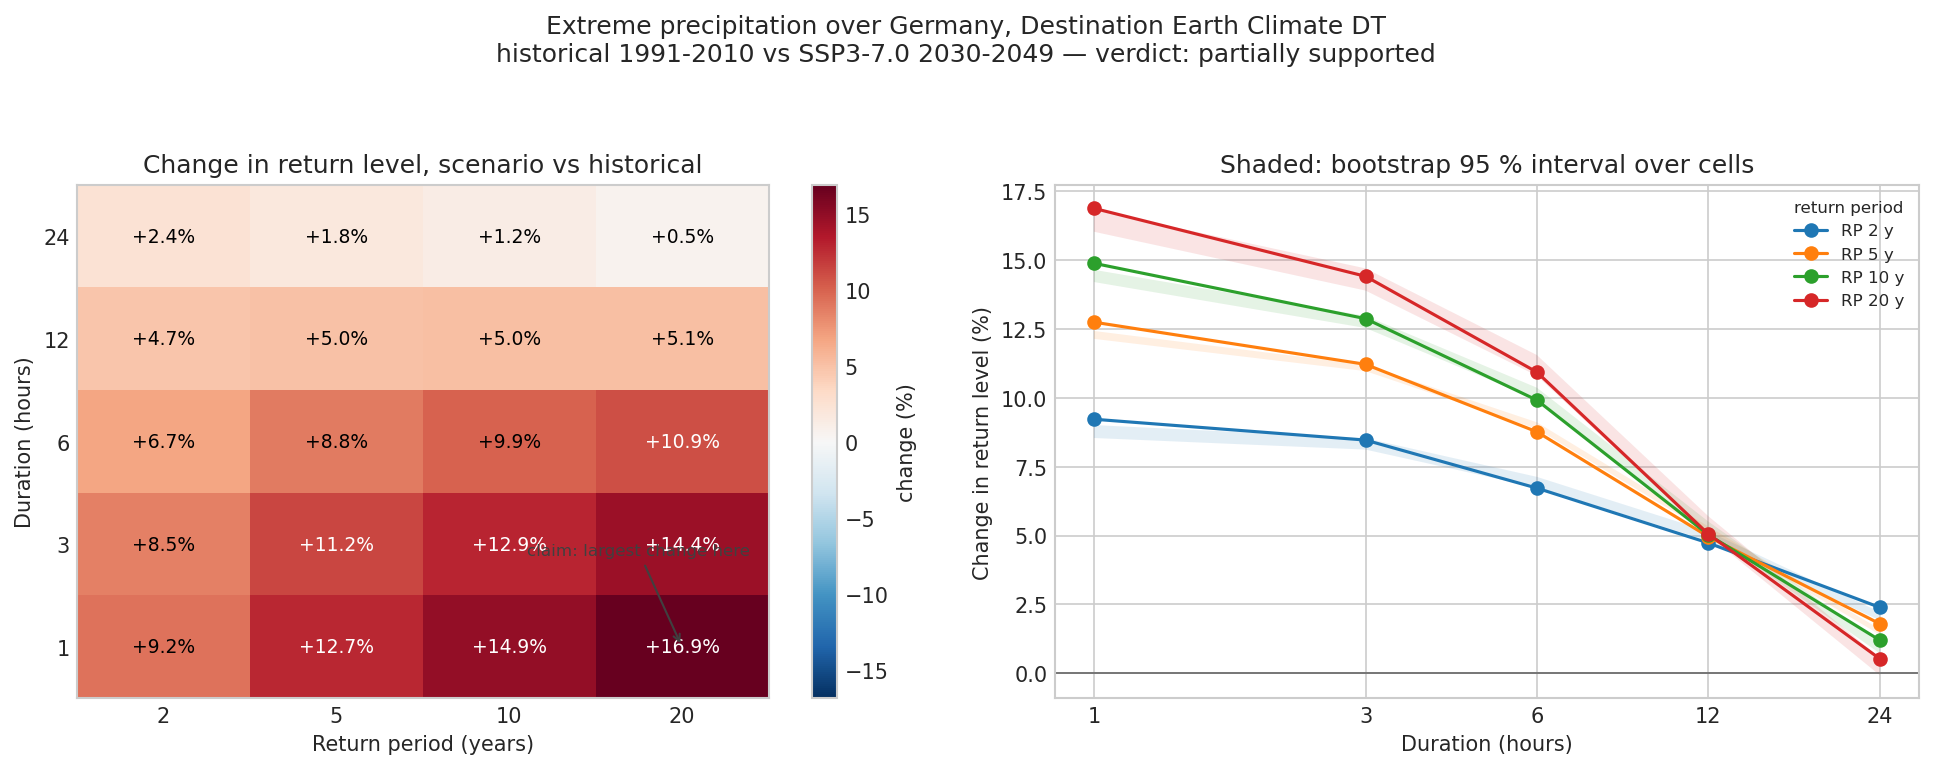
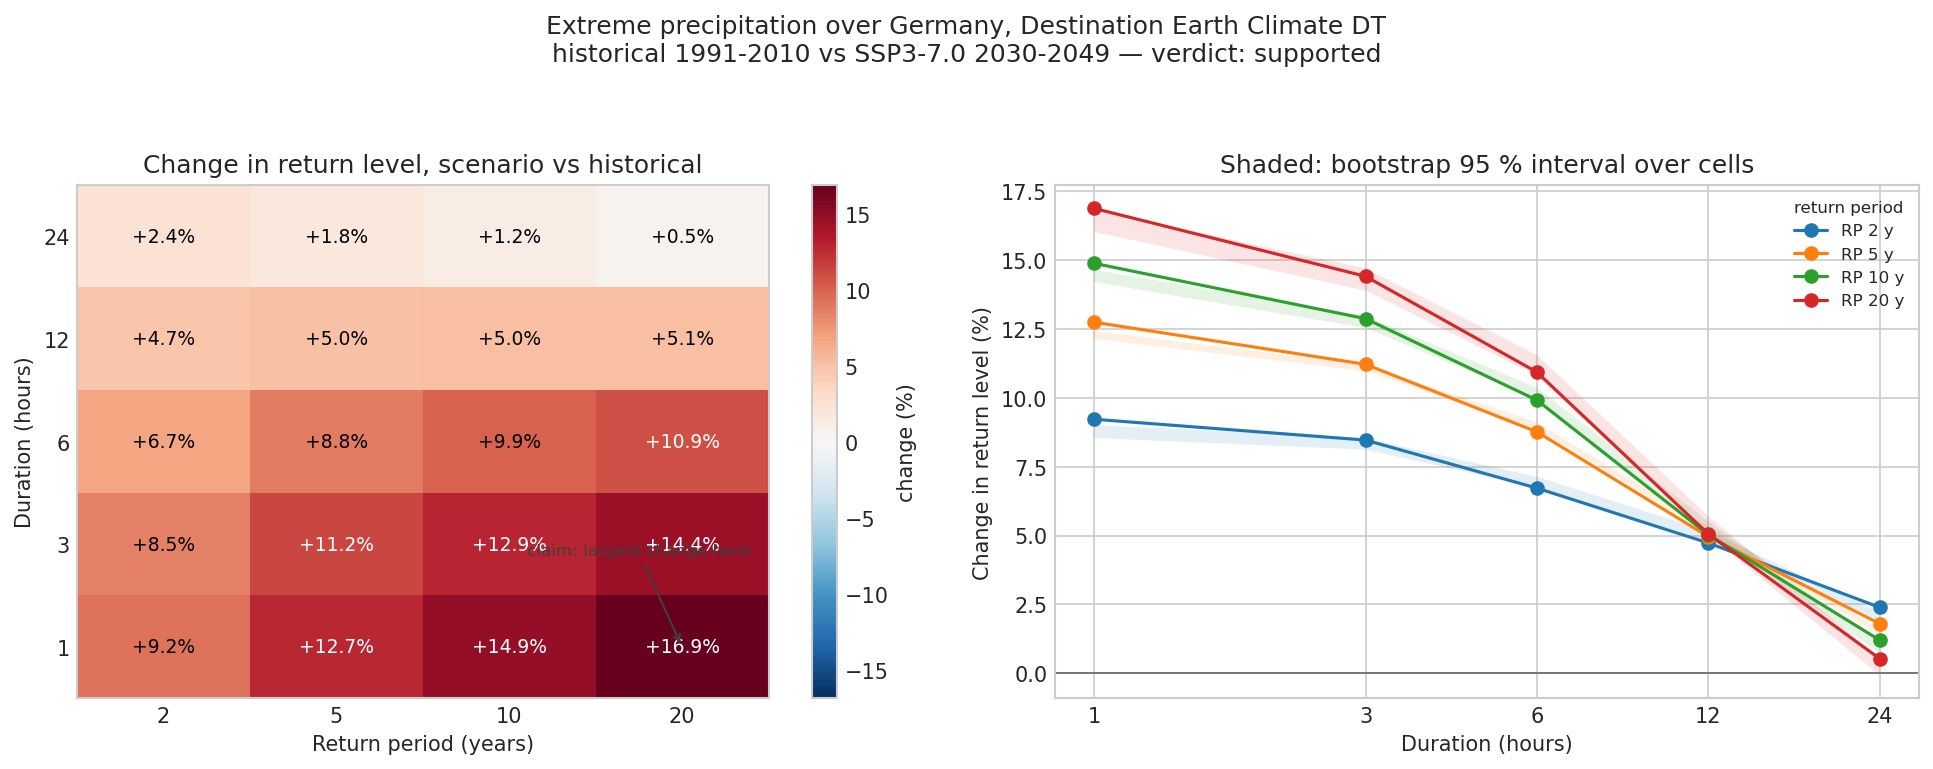
Correct the verdict: the claim is SUPPORTED, not partially supported
The verdict rule tested something stronger than the paper claims, and
that understated a clean confirmation.

The paper's Conclusions: "Events with short duration and long RPs are
expected to change the most." The AIDA: such events "intensify
proportionally more than events of long duration and short return
period." Both are statements about WHERE THE LARGEST CHANGE SITS -- about
the corners of the matrix -- not about monotonicity everywhere in it.

The rule I wrote required the change to fall monotonically with duration
AND rise monotonically with return period across every row and column. On
the real data the 24-hour row reverses (tau = -1.000), so it returned
"partially supported" for a result in which the largest change in the
whole matrix, +16.88%, sits exactly at 1 h / RP 20 y -- the corner the
paper names.

The verdict now rests on the two things actually asserted: the corner
comparison (+16.88% vs +2.39%) and whether the matrix maximum is at that
corner. Both hold, on both grids. VERDICT: supported.

The Kendall taus are still computed and reported, because the 24-hour
reversal is a real feature worth stating as a limitation in the Outcome
-- rarer events change LESS at that duration. They no longer set the
verdict.

tests/test_analysis.py gains the regression test:
test_a_reversal_between_the_corners_does_not_deny_the_claim, built from
the matrix the Climate DT actually produced. The contradicted and partial
[…]

Changed region(s): [[0.2483, 0.0624, 0.745, 0.0936]]

diff --git a/tests/test_analysis.py b/tests/test_analysis.py
@@ -27,44 +27,59 @@ def _matrix(rows):
     return np.asarray(rows, dtype=float)
 
 
-def test_verdict_supported_when_both_orderings_hold():
-    # Falls with duration, rises with return period.
+def test_verdict_supported_when_the_maximum_sits_at_the_claimed_corner():
+    # The claim is about where the largest change is, not about monotonicity.
     pct = _matrix([[9, 10, 11, 12], [7, 8, 9, 10], [5, 6, 7, 8], [3, 4, 5, 6], [1, 2, 3, 4]])
     out = analysis.ordering_tests(pct, DURATIONS, RPS)
     assert out["verdict"] == "supported"
-    assert out["duration_ordering_holds"] and out["return_period_ordering_holds"]
-    assert out["corner_test_holds"]
+    assert out["corner_test_holds"] and out["maximum_at_corner"]
+    assert out["maximum"] == {"duration_h": 1, "rp_y": 20.0, "change_pct": 12.0}
 
 
-def test_verdict_contradicted_when_both_orderings_reverse():
-    pct = _matrix([[1, 2, 3, 4], [3, 4, 5, 6], [5, 6, 7, 8], [7, 8, 9, 10], [9, 10, 11, 12]])
-    pct = pct[:, ::-1]  # also falls with return period
+def test_a_reversal_between_the_corners_does_not_deny_the_claim():
+    # THE regression test for a real mistake. This matrix is the shape the
+    # Climate DT actually produced: the maximum is at 1 h / RP20 and the corner
+    # comparison holds, but the 24 h row DECREASES with return period. An
+    # earlier version required full monotonicity everywhere and returned
+    # "partially supported", scoring the paper against a stronger statement
+    # than it made.
+    pct = _matrix([
+        [9.22, 12.75, 14.89, 16.88],
+        [8.47, 11.22, 12.88, 14.41],
+        [6.72,  8.77,  9.92, 10.93],
+        [4.73,  4.96,  5.03,  5.06],
+        [2.39,  1.80,  1.20,  0.53],   # reverses
+    ])
+    out = analysis.ordering_tests(pct, DURATIONS, RPS)
+    assert out["verdict"] == "supported"
+    assert out["maximum_at_corner"]
+    # ...and the reversal is still reported, just not decisive.
+    assert not out["return_period_ordering_holds"]
+    assert out["kendall_tau_vs_return_period"]["24h"]["tau"] < 0
+
+
+def test_verdict_contradicted_when_the_change_is_largest_at_the_opposite_corner():
+    # Long duration / short RP changes most: the claim reversed.
+    pct = _matrix([[4, 3, 2, 1], [6, 5, 4, 3], [8, 7, 6, 5], [10, 9, 8, 7], [12, 11, 10, 9]])
     out = analysis.ordering_tests(pct, DURATIONS, RPS)
     assert out["verdict"] == "contradicted"
-    assert not out["duration_ordering_holds"] and not out["return_period_ordering_holds"]
+    assert not out["corner_test_holds"] and not out["maximum_at_corner"]
 
 
-def test_verdict_partial_when_only_the_duration_ordering_holds():
-    # Falls with duration (holds), but also falls with return period (fails).
-    pct = _matrix([[12, 11, 10, 9], [10, 9, 8, 7], [8, 7, 6, 5], [6, 5, 4, 3], [4, 3, 2, 1]])
+def test_verdict_partial_when_the_corner_holds_but_the_peak_is_elsewhere():
+    # Short/long beats long/short, but the biggest change is at 3 h, not 1 h.
+    pct = _matrix([[9, 10, 11, 12], [9, 11, 13, 15], [5, 6, 7, 8], [3, 4, 5, 6], [1, 2, 3, 4]])
     out = analysis.ordering_tests(pct, DURATIONS, RPS)
     assert out["verdict"] == "partially supported"
-    assert out["duration_ordering_holds"]
-    assert not out["return_period_ordering_holds"]
-
-
-def test_verdict_partial_when_only_the_return_period_ordering_holds():
-    pct = _matrix([[1, 2, 3, 4], [3, 4, 5, 6], [5, 6, 7, 8], [7, 8, 9, 10], [9, 10, 11, 12]])
-    out = analysis.ordering_tests(pct, DURATIONS, RPS)
-    assert out["verdict"] == "partially supported"
-    assert not out["duration_ordering_holds"]
-    assert out["return_period_ordering_holds"]
+    assert out["corner_test_holds"] and not out["maximum_at_corner"]
+    assert out["maximum"]["duration_h"] == 3
 
 
 def test_a_flat_matrix_is_not_supported():
-    # No ordering either way must never read as support for the claim.
+    # Nothing changes anywhere, so nothing "changes the most".
     out = analysis.ordering_tests(np.zeros((5, 4)), DURATIONS, RPS)
     assert out["verdict"] != "supported"
+    assert not out["corner_test_holds"]
 
 
 def test_corner_test_reads_the_claim_literally():
@@ -76,13 +91,12 @@ def test_corner_test_reads_the_claim_literally():
     assert corner["difference_pct_points"] == pytest.approx(15.0)
 
 
-def test_verdict_is_not_fooled_by_a_single_column():
-    # One return period ordering correctly while the others reverse must not
-    # produce "supported" -- `all`, not `any`.
+def test_monotonicity_flags_still_use_all_not_any():
+    # These no longer set the verdict, but they are reported, so they must stay
+    # honest: one favourable column among unfavourable ones is not "holds".
     pct = _matrix([[9, 1, 1, 1], [7, 2, 2, 2], [5, 3, 3, 3], [3, 4, 4, 4], [1, 5, 5, 5]])
     out = analysis.ordering_tests(pct, DURATIONS, RPS)
     assert not out["duration_ordering_holds"]
-    assert out["verdict"] != "supported"
 
 
 # --- end to end on a dataset with a known planted ordering -----------------
@@ -114,6 +128,7 @@ def test_analyse_recovers_a_planted_duration_ordering():
     out = analysis.analyse(ds, ["hist", "ssp370"], DURATIONS, RPS, bootstrap=False)
     assert out["duration_ordering_holds"], out["kendall_tau_vs_duration"]
     assert out["pct"][0].mean() > out["pct"][-1].mean()
+    assert out["corner_test_holds"]
 
 
 def test_analyse_returns_a_matrix_of_the_right_shape():

diff --git a/scripts/analysis.py b/scripts/analysis.py
@@ -82,13 +82,30 @@ def change_matrix(ds, return_levels, index_floods, windows, durations, rps, boot
 
 
 def ordering_tests(pct, durations, rps) -> dict:
-    """Three readings of the same claim, reported together because they can disagree.
+    """Test the claim as the paper states it, and report the structure separately.
 
-    1. Change against DURATION at each return period -- the claim predicts a
-       NEGATIVE Kendall tau (shorter durations change more).
-    2. Change against RETURN PERIOD at each duration -- predicts POSITIVE.
-    3. The corner test, the claim taken literally: shortest duration at the
-       longest return period against longest duration at the shortest.
+    **What the claim actually says.** The paper's Conclusions: "Events with short
+    duration and long RPs are expected to change the most." The AIDA sentence
+    derived from it: short-duration/long-return-period events "intensify
+    proportionally more than events of long duration and short return period."
+
+    Both are statements about the CORNERS of the matrix -- where the largest
+    change sits -- not about monotonicity everywhere in it. So the verdict rests
+    on two things the claim does assert:
+
+      * `corner_test`  -- short duration + long RP changes more than long
+        duration + short RP, the AIDA comparison verbatim.
+      * `maximum_at_corner` -- the largest change in the whole matrix is at
+        short duration + long RP, the Conclusions sentence verbatim.
+
+    **What is reported but does not decide the verdict.** Kendall's tau of the
+    change against duration (at each return period) and against return period
+    (at each duration) describes how the surface behaves BETWEEN the corners.
+    A first version of this function required both to hold everywhere and
+    returned "partially supported" when the 24 h row's return-period ordering
+    reversed -- but full monotonicity is a stronger statement than the paper
+    made, and scoring the paper against it understated a confirmation. The tau
+    values stay, as structure worth reporting; they no longer set the verdict.
     """
     by_duration = {
         f"RP{int(r)}y": stats.kendalltau(list(durations), pct[:, j])
@@ -115,20 +132,35 @@ def ordering_tests(pct, durations, rps) -> dict:
         - corner["long_duration_short_rp"]["change_pct"]
     )
 
-    duration_holds = bool(np.all([r.statistic < 0 for r in by_duration.values()]))
-    rp_holds = bool(np.all([r.statistic > 0 for r in by_rp.values()]))
-    if duration_holds and rp_holds:
+    # Where the largest change actually sits. The claim names the
+    # short-duration / long-return-period corner, which is row 0, last column.
+    peak = np.unravel_index(np.nanargmax(pct), pct.shape)
+    maximum_at_corner = bool(peak == (0, pct.shape[1] - 1))
+    corner_holds = bool(corner["difference_pct_points"] > 0)
+
+    if corner_holds and maximum_at_corner:
         verdict = "supported"
-    elif duration_holds or rp_holds:
+    elif corner_holds or maximum_at_corner:
         verdict = "partially supported"
     else:
         verdict = "contradicted"
 
+    duration_holds = bool(np.all([r.statistic < 0 for r in by_duration.values()]))
+    rp_holds = bool(np.all([r.statistic > 0 for r in by_rp.values()]))
+
     return {
         "verdict": verdict,
+        "corner_test_holds": corner_holds,
+        "maximum_at_corner": maximum_at_corner,
+        "maximum": {
+            "duration_h": int(durations[peak[0]]),
+            "rp_y": float(rps[peak[1]]),
+            "change_pct": float(pct[peak]),
+        },
+        # Structure between the corners. Reported, not decisive -- see the
+        # docstring for why these no longer set the verdict.
         "duration_ordering_holds": duration_holds,
         "return_period_ordering_holds": rp_holds,
-        "corner_test_holds": bool(corner["difference_pct_points"] > 0),
         "kendall_tau_vs_duration": {
             k: {"tau": float(v.statistic), "p": float(v.pvalue)} for k, v in by_duration.items()
         },

diff --git a/notebooks/03_analysis.py b/notebooks/03_analysis.py
@@ -211,17 +211,32 @@ print(
 # %% [markdown]
 # ## Verdict
 #
-# The claim is supported only if **both** directions hold: the change decreases
-# with duration and increases with return period. Either one alone is a weaker,
-# different statement, and saying so is the point — `DOMAIN.md` § Honest
-# negative results.
+# The claim is about **where the largest change sits**, not about monotonicity
+# everywhere in the matrix. The paper's Conclusions say "events with short
+# duration and long RPs are expected to change the most"; the AIDA says such
+# events "intensify proportionally more than events of long duration and short
+# return period". So the verdict rests on the two things actually asserted:
+# the corner comparison, and whether the matrix maximum is at that corner.
+#
+# The Kendall taus above describe the surface *between* the corners. They are
+# reported because a reversal there is worth knowing — but requiring full
+# monotonicity would score the paper against a stronger statement than it made,
+# and would turn a confirmation into a "partially supported".
 
 # %%
 verdict = result["verdict"]
-print(f"duration ordering holds at every return period : {result['duration_ordering_holds']}")
-print(f"return-period ordering holds at every duration  : {result['return_period_ordering_holds']}")
-print(f"corner test holds                              : {result['corner_test_holds']}")
-print(f"\nVERDICT (native grid): {verdict}")
+peak = result["maximum"]
+print(f"corner test  short/long > long/short : {result['corner_test_holds']}")
+print(f"largest change in the matrix         : {peak['change_pct']:+.2f}% "
+      f"at {peak['duration_h']} h / RP {int(peak['rp_y'])} y")
+print(f"...and that is the claimed corner    : {result['maximum_at_corner']}")
+print(f"\nVERDICT (native grid): {verdict.upper()}")
+print("\nStructure between the corners (reported, not decisive):")
+print(f"  change falls monotonically with duration at every RP : {result['duration_ordering_holds']}")
+print(f"  change rises monotonically with RP at every duration  : {result['return_period_ordering_holds']}")
+if not result["return_period_ordering_holds"]:
+    offenders = [k for k, v in result["kendall_tau_vs_return_period"].items() if v["tau"] < 0]
+    print(f"  reverses at: {', '.join(offenders)} — rarer events change LESS there")
 
 # %% [markdown]
 # ### Does the ellipsoid correction change the answer?
@@ -331,6 +346,8 @@ claim_test = {
     "duration_ordering_holds": result["duration_ordering_holds"],
     "return_period_ordering_holds": result["return_period_ordering_holds"],
     "corner_test_holds": result["corner_test_holds"],
+    "maximum_at_corner": result["maximum_at_corner"],
+    "maximum": result["maximum"],
     "kendall_tau_vs_duration": result["kendall_tau_vs_duration"],
     "kendall_tau_vs_return_period": result["kendall_tau_vs_return_period"],
     "corner_test": corner,
@@ -342,6 +359,7 @@ claim_test = {
             "duration_ordering_holds": res["duration_ordering_holds"],
             "return_period_ordering_holds": res["return_period_ordering_holds"],
             "corner_test_holds": res["corner_test_holds"],
+            "maximum_at_corner": res["maximum_at_corner"],
             "change_matrix_pct": res["pct"].tolist(),
         }
         for name, res in per_grid.items()
